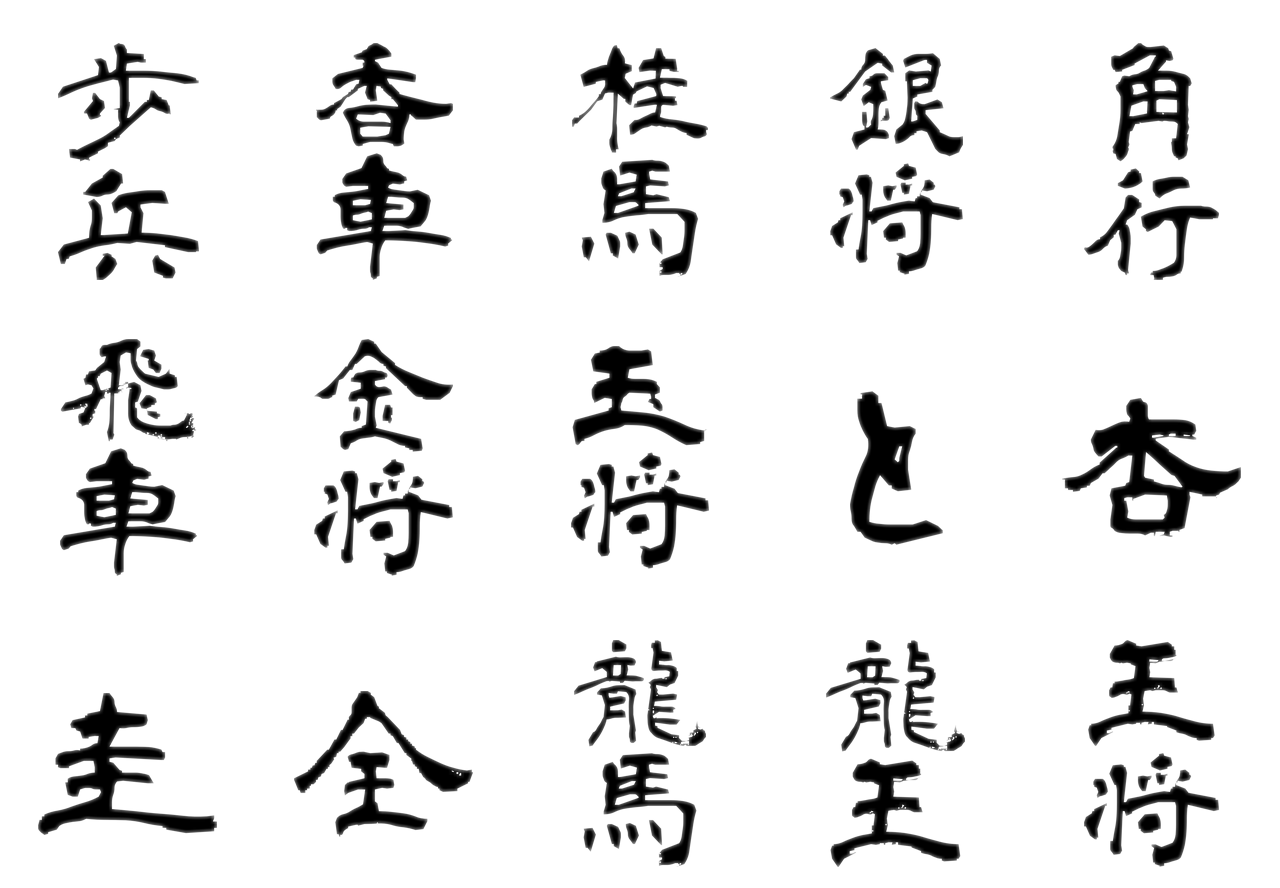
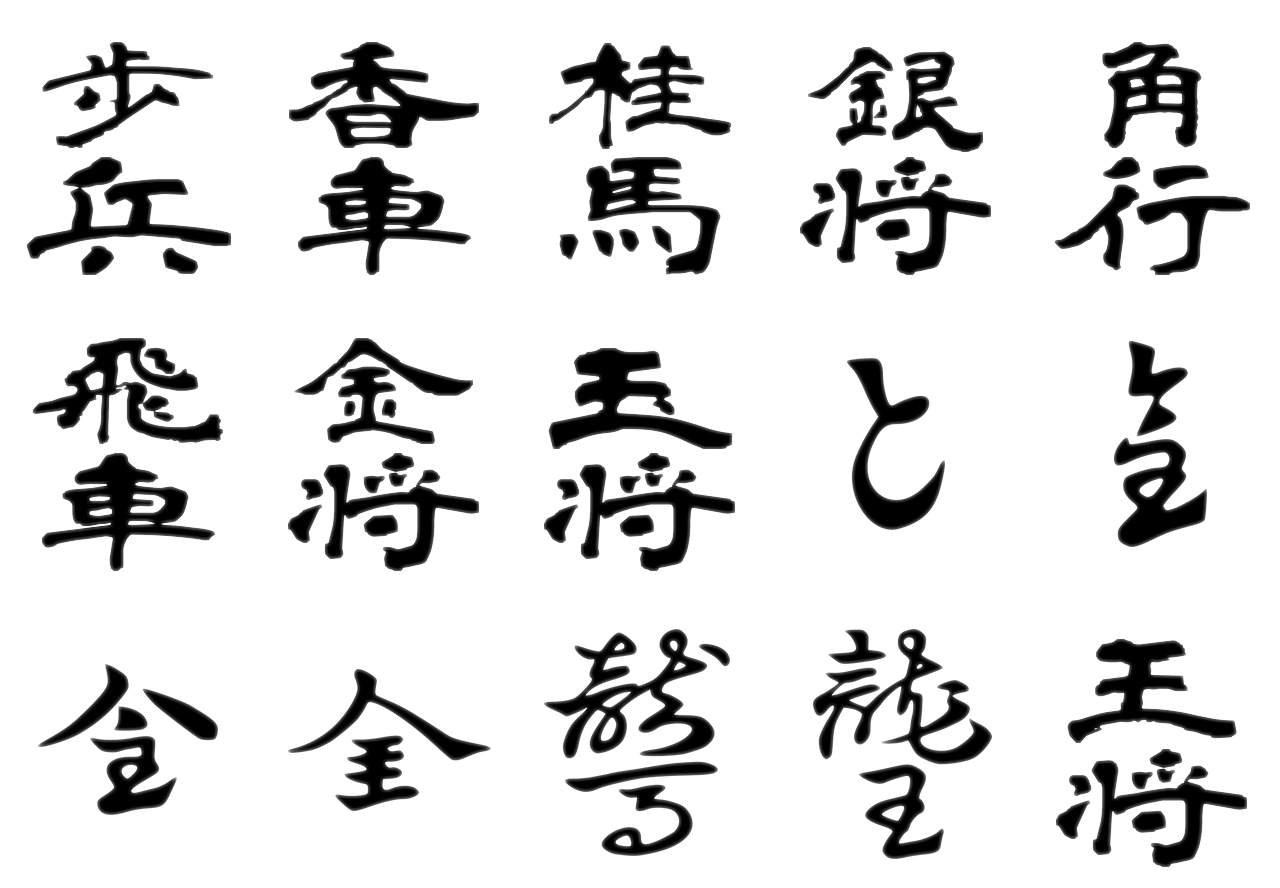
将棋3D駒：隷書を実物に寄せる（平たく太く面いっぱい・成りは草書）
Claude-Session: https://claude.ai/code/session_01EiWRAWLV8eg6m15v5x8gee

diff --git a/dots/index.html b/dots/index.html
@@ -2299,7 +2299,7 @@ document.querySelector('#rsResume').onclick = () => { document.querySelector('#r
   const f = document.createElement('link'); f.rel = 'stylesheet'; f.href = 'https://fonts.googleapis.com/css2?family=RocknRoll+One&family=Zen+Maru+Gothic:wght@500;700;900&family=Fredoka:wght@600;700&family=Kalam:wght@400;700&family=Zen+Kurenaido&family=Nanum+Pen+Script&family=Long+Cang&family=Aref+Ruqaa:wght@700&display=swap'; document.head.appendChild(f);   // (Kalam … Aref Ruqaa: the handwritten box initials and tally on the notebook page)
   const load = src => new Promise((res, rej) => { const s = document.createElement('script'); s.src = src; s.onload = res; s.onerror = rej; document.body.appendChild(s); });
   if (window.AtlasLoading) { AtlasLoading.show(); setTimeout(() => AtlasLoading.hide(), 12000); }   // safety net
-  load('https://cdnjs.cloudflare.com/ajax/libs/three.js/r128/three.min.js').then(() => load('../atlas/img/tex/baked.js?v=1')).then(() => load('../atlas/table3d.js?v=152')).then(() => load('../atlas/tables3d.js?v=70')).then(() => load('../atlas/skin/common.js?v=71')).then(() => load('../atlas/models/dots.js?v=3l14')).then(() => load('../atlas/skin/dots.js?v=7l14'))
+  load('https://cdnjs.cloudflare.com/ajax/libs/three.js/r128/three.min.js').then(() => load('../atlas/img/tex/baked.js?v=1')).then(() => load('../atlas/table3d.js?v=152')).then(() => load('../atlas/tables3d.js?v=71')).then(() => load('../atlas/skin/common.js?v=71')).then(() => load('../atlas/models/dots.js?v=3l14')).then(() => load('../atlas/skin/dots.js?v=7l14'))
     .catch(() => { document.documentElement.classList.remove('atlas-skin'); if (window.AtlasLoading) AtlasLoading.hide(); });
 })();
 </script>

diff --git a/ur/index.html b/ur/index.html
@@ -1029,7 +1029,7 @@ html:not([lang=ja]):not([lang=zh]):not([lang="zh-TW"]):not([lang=ko]) .result-bi
   const f = document.createElement('link'); f.rel = 'stylesheet'; f.href = 'https://fonts.googleapis.com/css2?family=RocknRoll+One&family=Zen+Maru+Gothic:wght@500;700;900&family=Fredoka:wght@600;700&display=swap'; document.head.appendChild(f);
   const load = src => new Promise((res, rej) => { const s = document.createElement('script'); s.src = src; s.onload = res; s.onerror = rej; document.body.appendChild(s); });
   if (window.AtlasLoading) { AtlasLoading.show(); setTimeout(() => AtlasLoading.hide(), 12000); }   // safety net
-  load('https://cdnjs.cloudflare.com/ajax/libs/three.js/r128/three.min.js').then(() => load('../atlas/img/tex/baked.js?v=1')).then(() => load('../atlas/table3d.js?v=152')).then(() => load('../atlas/tables3d.js?v=70')).then(() => load('../atlas/skin/common.js?v=71')).then(() => load('../atlas/models/ur-dice.js?v=2l14')).then(() => load('../atlas/models/ur.js?v=3l14')).then(() => load('../atlas/skin/ur.js?v=14l14'))
+  load('https://cdnjs.cloudflare.com/ajax/libs/three.js/r128/three.min.js').then(() => load('../atlas/img/tex/baked.js?v=1')).then(() => load('../atlas/table3d.js?v=152')).then(() => load('../atlas/tables3d.js?v=71')).then(() => load('../atlas/skin/common.js?v=71')).then(() => load('../atlas/models/ur-dice.js?v=2l14')).then(() => load('../atlas/models/ur.js?v=3l14')).then(() => load('../atlas/skin/ur.js?v=14l14'))
     .catch(() => { const u = new URL(location.href); u.searchParams.delete('skin'); location.replace(u.href); });   // (the 3D files are missing: the plain 2D page)
 })();
 </script>

diff --git a/connect4/index.html b/connect4/index.html
@@ -3390,7 +3390,7 @@ document.addEventListener('keydown', e => {
   const f = document.createElement('link'); f.rel = 'stylesheet'; f.href = 'https://fonts.googleapis.com/css2?family=RocknRoll+One&family=Zen+Maru+Gothic:wght@500;700;900&family=Fredoka:wght@600;700&display=swap'; document.head.appendChild(f);
   const load = src => new Promise((res, rej) => { const s = document.createElement('script'); s.src = src; s.onload = res; s.onerror = rej; document.body.appendChild(s); });
   if (window.AtlasLoading) { AtlasLoading.show(); setTimeout(() => AtlasLoading.hide(), 12000); }   // safety net
-  load('https://cdnjs.cloudflare.com/ajax/libs/three.js/r128/three.min.js').then(() => load('../atlas/img/tex/baked.js?v=1')).then(() => load('../atlas/table3d.js?v=152')).then(() => load('../atlas/tables3d.js?v=70')).then(() => load('../atlas/skin/common.js?v=71')).then(() => load('../atlas/models/connect4.js?v=5l14')).then(() => load('../atlas/games/connect4-tiles.js?v=1l14')).then(() => load('../atlas/skin/connect4.js?v=6l14-aim'))
+  load('https://cdnjs.cloudflare.com/ajax/libs/three.js/r128/three.min.js').then(() => load('../atlas/img/tex/baked.js?v=1')).then(() => load('../atlas/table3d.js?v=152')).then(() => load('../atlas/tables3d.js?v=71')).then(() => load('../atlas/skin/common.js?v=71')).then(() => load('../atlas/models/connect4.js?v=5l14')).then(() => load('../atlas/games/connect4-tiles.js?v=1l14')).then(() => load('../atlas/skin/connect4.js?v=6l14-aim'))
     .catch(() => { document.documentElement.classList.remove('atlas-skin'); if (window.AtlasLoading) AtlasLoading.hide(); });
 })();
 </script>

diff --git a/morris/index.html b/morris/index.html
@@ -3897,7 +3897,7 @@ window.addEventListener('resize', () => renderFx());
   const f = document.createElement('link'); f.rel = 'stylesheet'; f.href = 'https://fonts.googleapis.com/css2?family=RocknRoll+One&family=Zen+Maru+Gothic:wght@500;700;900&family=Fredoka:wght@600;700&display=swap'; document.head.appendChild(f);
   const load = src => new Promise((res, rej) => { const s = document.createElement('script'); s.src = src; s.onload = res; s.onerror = rej; document.body.appendChild(s); });
   if (window.AtlasLoading) { AtlasLoading.show(); setTimeout(() => AtlasLoading.hide(), 12000); }   // safety net
-  load('https://cdnjs.cloudflare.com/ajax/libs/three.js/r128/three.min.js').then(() => load('../atlas/img/tex/baked.js?v=1')).then(() => load('../atlas/table3d.js?v=152')).then(() => load('../atlas/tables3d.js?v=70')).then(() => load('../atlas/skin/common.js?v=71')).then(() => load('../atlas/models/morris.js?v=6l14')).then(() => load('../atlas/games/morris-pieces.js?v=2l14')).then(() => load('../atlas/skin/morris.js?v=6l15'))
+  load('https://cdnjs.cloudflare.com/ajax/libs/three.js/r128/three.min.js').then(() => load('../atlas/img/tex/baked.js?v=1')).then(() => load('../atlas/table3d.js?v=152')).then(() => load('../atlas/tables3d.js?v=71')).then(() => load('../atlas/skin/common.js?v=71')).then(() => load('../atlas/models/morris.js?v=6l14')).then(() => load('../atlas/games/morris-pieces.js?v=2l14')).then(() => load('../atlas/skin/morris.js?v=6l15'))
     .catch(() => { document.documentElement.classList.remove('atlas-skin'); if (window.AtlasLoading) AtlasLoading.hide(); });
 })();
 </script>

diff --git a/senet/index.html b/senet/index.html
@@ -1030,7 +1030,7 @@ html:not([lang=ja]):not([lang=zh]):not([lang=zh-TW]):not([lang=ko]) .result-big{
   const f = document.createElement('link'); f.rel = 'stylesheet'; f.href = 'https://fonts.googleapis.com/css2?family=RocknRoll+One&family=Zen+Maru+Gothic:wght@500;700;900&family=Fredoka:wght@600;700&display=swap'; document.head.appendChild(f);
   const load = src => new Promise((res, rej) => { const s = document.createElement('script'); s.src = src; s.onload = res; s.onerror = rej; document.body.appendChild(s); });
   if (window.AtlasLoading) { AtlasLoading.show(); setTimeout(() => AtlasLoading.hide(), 12000); }   // safety net
-  load('https://cdnjs.cloudflare.com/ajax/libs/three.js/r128/three.min.js').then(() => load('../atlas/img/tex/baked.js?v=1')).then(() => load('../atlas/table3d.js?v=152')).then(() => load('../atlas/tables3d.js?v=70')).then(() => load('../atlas/skin/common.js?v=71')).then(() => load('../atlas/models/senet.js?v=10l14')).then(() => load('../atlas/skin/senet.js?v=10l14'))
+  load('https://cdnjs.cloudflare.com/ajax/libs/three.js/r128/three.min.js').then(() => load('../atlas/img/tex/baked.js?v=1')).then(() => load('../atlas/table3d.js?v=152')).then(() => load('../atlas/tables3d.js?v=71')).then(() => load('../atlas/skin/common.js?v=71')).then(() => load('../atlas/models/senet.js?v=10l14')).then(() => load('../atlas/skin/senet.js?v=10l14'))
     .catch(() => { const u = new URL(location.href); u.searchParams.delete('skin'); location.replace(u.href); });   // (the 3D files are missing: the plain 2D page)
 })();
 </script>

diff --git a/fanorona/index.html b/fanorona/index.html
@@ -1687,7 +1687,7 @@ body.lt-on .reserve .onb.on{border-color:var(--accent);box-shadow:0 0 0 1px var(
   const f = document.createElement('link'); f.rel = 'stylesheet'; f.href = 'https://fonts.googleapis.com/css2?family=RocknRoll+One&family=Zen+Maru+Gothic:wght@500;700;900&family=Fredoka:wght@600;700&display=swap'; document.head.appendChild(f);
   const load = src => new Promise((res, rej) => { const s = document.createElement('script'); s.src = src; s.onload = res; s.onerror = rej; document.body.appendChild(s); });
   if (window.AtlasLoading) { AtlasLoading.show(); setTimeout(() => AtlasLoading.hide(), 12000); }   // safety net
-  load('https://cdnjs.cloudflare.com/ajax/libs/three.js/r128/three.min.js').then(() => load('../atlas/img/tex/baked.js?v=1')).then(() => load('../atlas/table3d.js?v=152')).then(() => load('../atlas/tables3d.js?v=70')).then(() => load('../atlas/skin/common.js?v=71')).then(() => load('../atlas/models/fanorona.js?v=3l14')).then(() => load('../atlas/skin/fanorona.js?v=6l14'))
+  load('https://cdnjs.cloudflare.com/ajax/libs/three.js/r128/three.min.js').then(() => load('../atlas/img/tex/baked.js?v=1')).then(() => load('../atlas/table3d.js?v=152')).then(() => load('../atlas/tables3d.js?v=71')).then(() => load('../atlas/skin/common.js?v=71')).then(() => load('../atlas/models/fanorona.js?v=3l14')).then(() => load('../atlas/skin/fanorona.js?v=6l14'))
     .catch(() => { document.documentElement.classList.remove('atlas-skin'); if (window.AtlasLoading) AtlasLoading.hide(); });
 })();
 </script>

diff --git a/mancala/index.html b/mancala/index.html
@@ -1586,7 +1586,7 @@ html[data-sk=ocean] .seed{box-shadow:0 calc(var(--u) * .025) calc(var(--u) * .04
   const f = document.createElement('link'); f.rel = 'stylesheet'; f.href = 'https://fonts.googleapis.com/css2?family=RocknRoll+One&family=Zen+Maru+Gothic:wght@500;700;900&family=Fredoka:wght@600;700&display=swap'; document.head.appendChild(f);
   const load = src => new Promise((res, rej) => { const s = document.createElement('script'); s.src = src; s.onload = res; s.onerror = rej; document.body.appendChild(s); });
   if (window.AtlasLoading) { AtlasLoading.show(); setTimeout(() => AtlasLoading.hide(), 12000); }   // safety net
-  load('https://cdnjs.cloudflare.com/ajax/libs/three.js/r128/three.min.js').then(() => load('../atlas/img/tex/baked.js?v=1')).then(() => load('../atlas/table3d.js?v=152')).then(() => load('../atlas/tables3d.js?v=70')).then(() => load('../atlas/skin/common.js?v=71')).then(() => load('../atlas/models/mancala.js?v=4l14')).then(() => load('../atlas/skin/mancala.js?v=10l14'))
+  load('https://cdnjs.cloudflare.com/ajax/libs/three.js/r128/three.min.js').then(() => load('../atlas/img/tex/baked.js?v=1')).then(() => load('../atlas/table3d.js?v=152')).then(() => load('../atlas/tables3d.js?v=71')).then(() => load('../atlas/skin/common.js?v=71')).then(() => load('../atlas/models/mancala.js?v=4l14')).then(() => load('../atlas/skin/mancala.js?v=10l14'))
     .catch(() => { document.documentElement.classList.remove('atlas-skin'); if (window.AtlasLoading) AtlasLoading.hide(); });
 })();
 </script>

diff --git a/gomoku/index.html b/gomoku/index.html
@@ -1445,7 +1445,7 @@ body.skin-ink .st.b{background:radial-gradient(circle at 34% 28%,#8a8f98 0%,#3c4
   const f = document.createElement('link'); f.rel = 'stylesheet'; f.href = 'https://fonts.googleapis.com/css2?family=RocknRoll+One&family=Zen+Maru+Gothic:wght@500;700;900&family=Fredoka:wght@600;700&display=swap'; document.head.appendChild(f);
   const load = src => new Promise((res, rej) => { const s = document.createElement('script'); s.src = src; s.onload = res; s.onerror = rej; document.body.appendChild(s); });
   if (window.AtlasLoading) { AtlasLoading.show(); setTimeout(() => AtlasLoading.hide(), 12000); }   // safety net
-  load('https://cdnjs.cloudflare.com/ajax/libs/three.js/r128/three.min.js').then(() => load('../atlas/img/tex/baked.js?v=1')).then(() => load('../atlas/table3d.js?v=152')).then(() => load('../atlas/tables3d.js?v=70')).then(() => load('../atlas/skin/common.js?v=71')).then(() => load('../atlas/models/goban.js?v=11l14')).then(() => load('../atlas/skin/gomoku.js?v=4l14'))
+  load('https://cdnjs.cloudflare.com/ajax/libs/three.js/r128/three.min.js').then(() => load('../atlas/img/tex/baked.js?v=1')).then(() => load('../atlas/table3d.js?v=152')).then(() => load('../atlas/tables3d.js?v=71')).then(() => load('../atlas/skin/common.js?v=71')).then(() => load('../atlas/models/goban.js?v=11l14')).then(() => load('../atlas/skin/gomoku.js?v=4l14'))
     .catch(() => { document.documentElement.classList.remove('atlas-skin'); if (window.AtlasLoading) AtlasLoading.hide(); });
 })();
 </script>

diff --git a/ugolki/index.html b/ugolki/index.html
@@ -1393,7 +1393,7 @@ html:is([data-bd=gzhel],[data-bd=birch]) .reserve .rsv-plate .rsv-w:not(.hot) b{
   const f = document.createElement('link'); f.rel = 'stylesheet'; f.href = 'https://fonts.googleapis.com/css2?family=RocknRoll+One&family=Zen+Maru+Gothic:wght@500;700;900&family=Fredoka:wght@600;700&display=swap'; document.head.appendChild(f);
   const load = src => new Promise((res, rej) => { const s = document.createElement('script'); s.src = src; s.onload = res; s.onerror = rej; document.body.appendChild(s); });
   if (window.AtlasLoading) { AtlasLoading.show(); setTimeout(() => AtlasLoading.hide(), 12000); }   // safety net
-  load('https://cdnjs.cloudflare.com/ajax/libs/three.js/r128/three.min.js').then(() => load('../atlas/img/tex/baked.js?v=1')).then(() => load('../atlas/table3d.js?v=152')).then(() => load('../atlas/tables3d.js?v=70')).then(() => load('../atlas/skin/common.js?v=71')).then(() => load('../atlas/models/ugolki.js?v=4l14')).then(() => load('../atlas/skin/ugolki.js?v=2l14'))
+  load('https://cdnjs.cloudflare.com/ajax/libs/three.js/r128/three.min.js').then(() => load('../atlas/img/tex/baked.js?v=1')).then(() => load('../atlas/table3d.js?v=152')).then(() => load('../atlas/tables3d.js?v=71')).then(() => load('../atlas/skin/common.js?v=71')).then(() => load('../atlas/models/ugolki.js?v=4l14')).then(() => load('../atlas/skin/ugolki.js?v=2l14'))
     .catch(() => { document.documentElement.classList.remove('atlas-skin'); if (window.AtlasLoading) AtlasLoading.hide(); });
 })();
 </script>

diff --git a/alquerque/index.html b/alquerque/index.html
@@ -1689,7 +1689,7 @@ window.OL_VARIANTS = ['alq', 'alqf']; window.OL_DB_PREFIX = 'alq/';
   const f = document.createElement('link'); f.rel = 'stylesheet'; f.href = 'https://fonts.googleapis.com/css2?family=RocknRoll+One&family=Zen+Maru+Gothic:wght@500;700;900&family=Fredoka:wght@600;700&display=swap'; document.head.appendChild(f);
   const load = src => new Promise((res, rej) => { const s = document.createElement('script'); s.src = src; s.onload = res; s.onerror = rej; document.body.appendChild(s); });
   if (window.AtlasLoading) { AtlasLoading.show(); setTimeout(() => AtlasLoading.hide(), 12000); }   // safety net
-  load('https://cdnjs.cloudflare.com/ajax/libs/three.js/r128/three.min.js').then(() => load('../atlas/img/tex/baked.js?v=1')).then(() => load('../atlas/table3d.js?v=152')).then(() => load('../atlas/tables3d.js?v=70')).then(() => load('../atlas/skin/common.js?v=71')).then(() => load('../atlas/models/alquerque.js?v=3l14')).then(() => load('../atlas/skin/fanorona.js?v=6l14'))
+  load('https://cdnjs.cloudflare.com/ajax/libs/three.js/r128/three.min.js').then(() => load('../atlas/img/tex/baked.js?v=1')).then(() => load('../atlas/table3d.js?v=152')).then(() => load('../atlas/tables3d.js?v=71')).then(() => load('../atlas/skin/common.js?v=71')).then(() => load('../atlas/models/alquerque.js?v=3l14')).then(() => load('../atlas/skin/fanorona.js?v=6l14'))
     .catch(() => { document.documentElement.classList.remove('atlas-skin'); if (window.AtlasLoading) AtlasLoading.hide(); });
 })();
 </script>

diff --git a/chess/index.html b/chess/index.html
@@ -1589,7 +1589,7 @@ body.in-online .coach,body.in-online #btnMistakes{display:none!important}
   const f = document.createElement('link'); f.rel = 'stylesheet'; f.href = 'https://fonts.googleapis.com/css2?family=RocknRoll+One&family=Zen+Maru+Gothic:wght@500;700;900&family=Fredoka:wght@600;700&display=swap'; document.head.appendChild(f);
   const load = src => new Promise((res, rej) => { const s = document.createElement('script'); s.src = src; s.onload = res; s.onerror = rej; document.body.appendChild(s); });
   if (window.AtlasLoading) { AtlasLoading.show(); setTimeout(() => AtlasLoading.hide(), 12000); }   // safety net
-  load('https://cdnjs.cloudflare.com/ajax/libs/three.js/r128/three.min.js').then(() => load('../atlas/img/tex/baked.js?v=1')).then(() => load('../atlas/table3d.js?v=152')).then(() => load('../atlas/tables3d.js?v=70')).then(() => load('../atlas/skin/common.js?v=71')).then(() => load('../atlas/models/chess.js?v=16l14')).then(() => load('../atlas/skin/chess.js?v=11l14'))
+  load('https://cdnjs.cloudflare.com/ajax/libs/three.js/r128/three.min.js').then(() => load('../atlas/img/tex/baked.js?v=1')).then(() => load('../atlas/table3d.js?v=152')).then(() => load('../atlas/tables3d.js?v=71')).then(() => load('../atlas/skin/common.js?v=71')).then(() => load('../atlas/models/chess.js?v=16l14')).then(() => load('../atlas/skin/chess.js?v=11l14'))
     .catch(() => { document.documentElement.classList.remove('atlas-skin'); if (window.AtlasLoading) AtlasLoading.hide(); });
 })();
 </script>

diff --git a/shogi/index.html b/shogi/index.html
@@ -6466,7 +6466,7 @@ if (window.Online && Online.available) setInterval(() => { if (dock.on) chatStar
   const f = document.createElement('link'); f.rel = 'stylesheet'; f.href = 'https://fonts.googleapis.com/css2?family=RocknRoll+One&family=Zen+Maru+Gothic:wght@500;700;900&family=Fredoka:wght@600;700&display=swap'; document.head.appendChild(f);
   const load = src => new Promise((res, rej) => { const s = document.createElement('script'); s.src = src; s.onload = res; s.onerror = rej; document.body.appendChild(s); });
   if (window.AtlasLoading) { AtlasLoading.show(); setTimeout(() => AtlasLoading.hide(), 12000); }   // safety net
-  load('https://cdnjs.cloudflare.com/ajax/libs/three.js/r128/three.min.js').then(() => load('../atlas/img/tex/baked.js?v=1')).then(() => load('../atlas/table3d.js?v=152')).then(() => load('../atlas/tables3d.js?v=70')).then(() => load('../atlas/skin/common.js?v=71')).then(() => load('../atlas/models/shogi.js?v=50')).then(() => load('../atlas/skin/shogi.js?v=41'))
+  load('https://cdnjs.cloudflare.com/ajax/libs/three.js/r128/three.min.js').then(() => load('../atlas/img/tex/baked.js?v=1')).then(() => load('../atlas/table3d.js?v=152')).then(() => load('../atlas/tables3d.js?v=71')).then(() => load('../atlas/skin/common.js?v=71')).then(() => load('../atlas/models/shogi.js?v=50')).then(() => load('../atlas/skin/shogi.js?v=141'))
     .catch(() => { document.documentElement.classList.remove('atlas-skin'); if (window.AtlasLoading) AtlasLoading.hide(); });
 })();
 </script>
